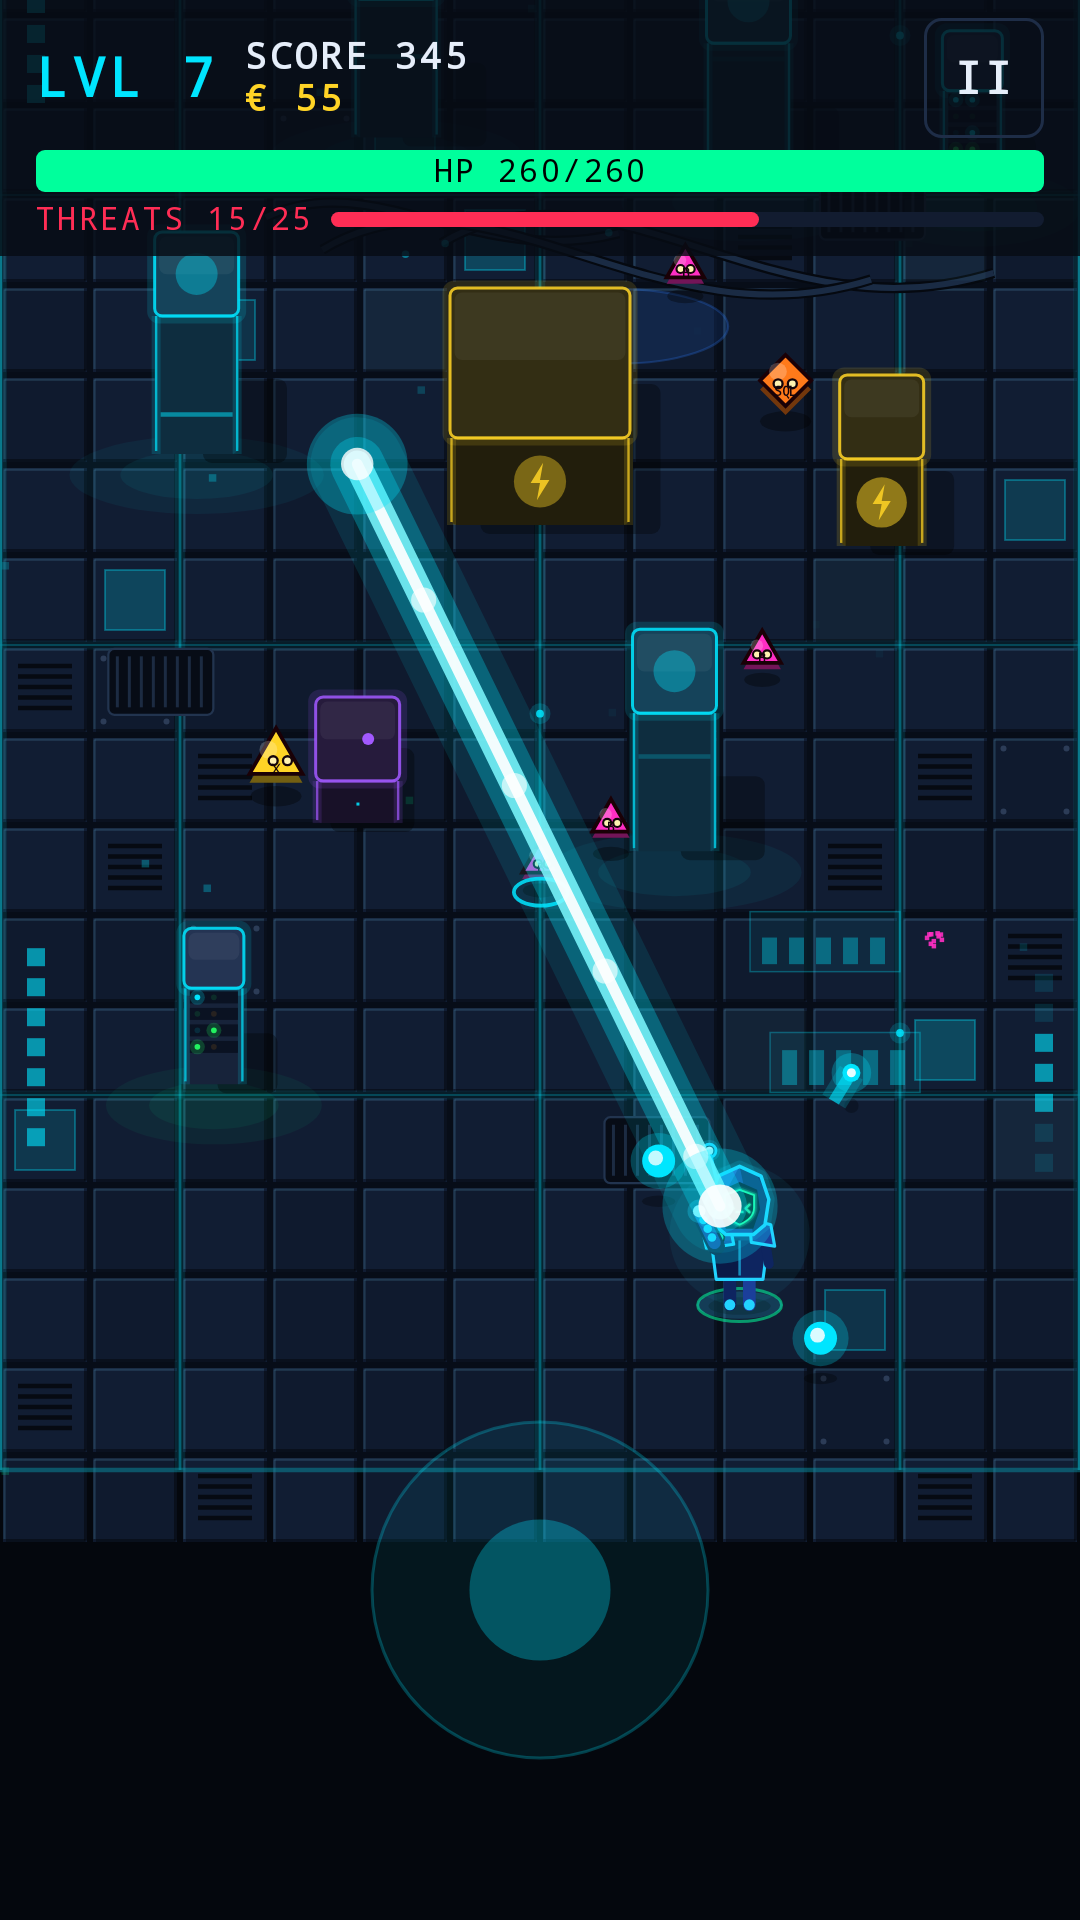
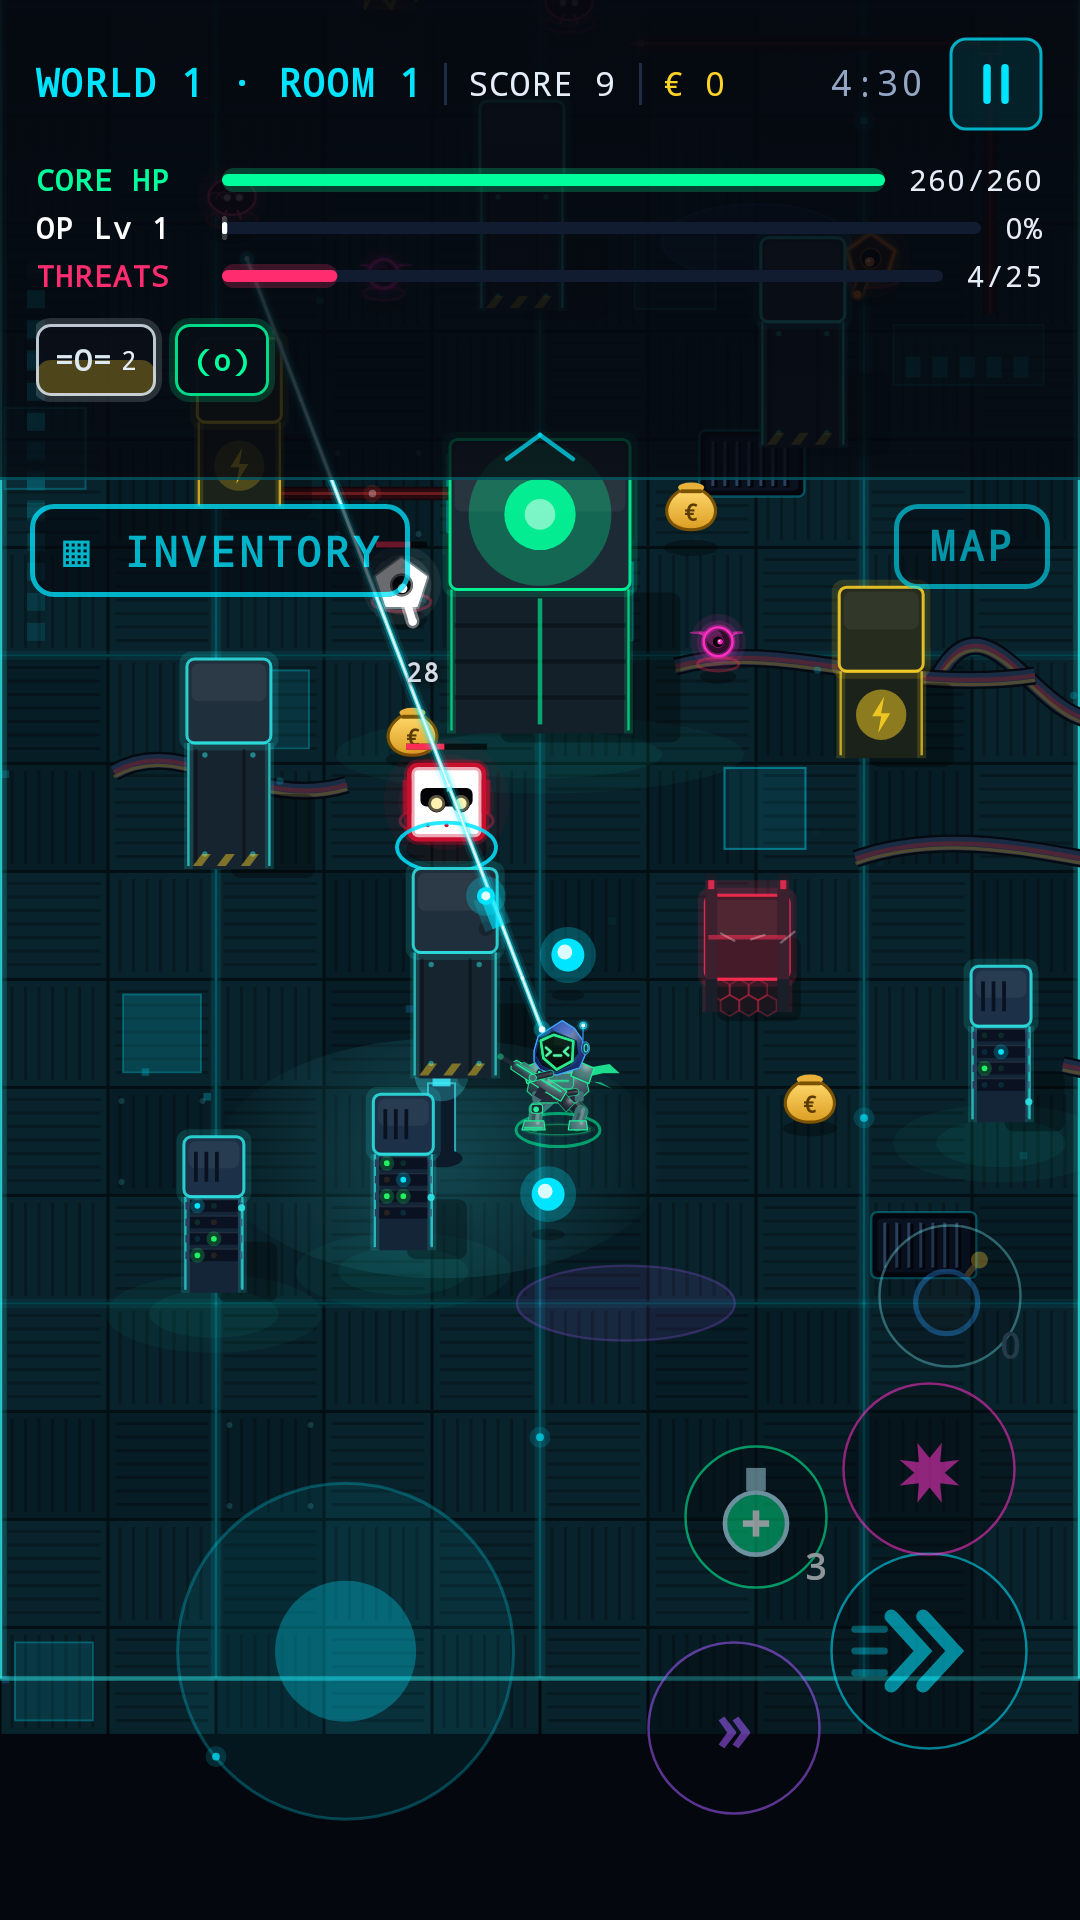
0.47.1: draw the Plasma Beam at 15% thickness
Visual only (BEAM_LOOK in ArenaRenderer.drawBeam); the hit width stays
GameEngine.beamWidth. Store screenshot 01 re-rendered.

Claude-Session: https://claude.ai/code/session_01J4fYSi9rfQR62SLnfyrDCN

diff --git a/app/src/main/java/com/cyberoperative/game/ui/game/ArenaRenderer.kt b/app/src/main/java/com/cyberoperative/game/ui/game/ArenaRenderer.kt
@@ -2121,6 +2121,9 @@ class ArenaRenderer {
         }
     }
 
+    /** Plasma Beam look: its drawn width as a share of its hit width. */
+    private val BEAM_LOOK = 0.15f
+
     /** Plasma Beam: layered cyan glow with a white-hot core, muzzle flare and impact sparks. */
     private fun DrawScope.drawBeam(g: GameEngine, time: Float, lift: Float) {
         if (!g.beamActive) return
@@ -2129,14 +2132,16 @@ class ArenaRenderer {
         val sy = g.py - lift - 6f + sin(ang) * 30f
         val ex = g.beamX2
         val ey = g.beamY2 - lift
-        val w = g.beamWidth
+        // Drawn at 15% of its old thickness (owner, 0.47.1: "it covers a whole line on the screen");
+        // what it hits is unchanged (GameEngine.beamWidth).
+        val w = (g.beamWidth * BEAM_LOOK).coerceAtLeast(2.5f)
         val flick = 0.85f + 0.15f * sin(time * 60f)
         val a = Offset(sx, sy)
         val b = Offset(ex, ey)
         drawLine(Palette.Cyan.copy(alpha = 0.10f), a, b, w * 2.6f, cap = androidx.compose.ui.graphics.StrokeCap.Round)
         drawLine(Palette.Cyan.copy(alpha = 0.30f * flick), a, b, w * 1.5f, cap = androidx.compose.ui.graphics.StrokeCap.Round)
         drawLine(Color(0xFF7DF9FF).copy(alpha = 0.85f), a, b, w * 0.75f, cap = androidx.compose.ui.graphics.StrokeCap.Round)
-        drawLine(Color.White.copy(alpha = 0.95f * flick), a, b, w * 0.3f, cap = androidx.compose.ui.graphics.StrokeCap.Round)
+        drawLine(Color.White.copy(alpha = 0.95f * flick), a, b, (w * 0.3f).coerceAtLeast(1f), cap = androidx.compose.ui.graphics.StrokeCap.Round)
         // Energy pulses travelling down the beam.
         val len = kotlin.math.hypot(ex - sx, ey - sy)
         if (len > 1f) for (k in 0 until 4) {

diff --git a/README.md b/README.md
@@ -16,7 +16,7 @@ Play **co-op** with a friend (friend codes, invites, live two-player runs; see `
 
 ## Project status
 
-`0.47.0` — GLITCHED ENCRYPTED gear: a new top rarity, 650 pieces (50 per slot + 50 class weapons per class), cyan↔red glitch animations; `0.46.0` AUTO-SELL in Settings (sell everything below a chosen rarity); `0.45.3` fixed the silent NEON tracks on Android; `0.45.2` hatch sound effect, plus a full hatch clip in `docs/pets_new/hatch_animation.mp4`; `0.45.1` hatch glow from 1× (Common) to 2× (Encrypted) in the rarity's colour; `0.45.0` three incubators hatching at once (empty glass or the real egg inside), an animated hatch reveal with the pet's stats that grows with rarity; `0.44.0` operator redesign: the same figures with the pets' shading (matte cloth Packet Mage, Phantom hood and cape as before); `0.43.1` Technician without the small blaster; operator redesign concept; `0.43.0` instant hatch with € too (highest OP level × ◇ price × 100); `0.42.0` INSTANT HATCH for ◇ (4 × ⌈rarity × minutes ÷ 6⌉); `0.41.0` 500 animated ENCRYPTED pets in 14 colourways (orbiting orbs, gears, rings, propellers…); `0.40.0` 500 new GLITCHED…ENCRYPTED pets with their own eggs; `0.39.1` tougher NORMAL past level 100 (HARD rises with it), HARD Idle Runs (no GLITCHED/ENCRYPTED from idle); `0.39.0` GLITCHED LEGENDARY and ENCRYPTED gear + chips, FORGED…ABYSSAL chips (22 new chips: shoot while moving, heal per hit, auto/full-heal potions, ×2 damage…), Golden+ gear +30%, easier HARD past World 2 with 2 chips a room, bosses drop 3 HP potions, pet abilities, hatch notification; `0.38.0` COMPANIONS: eggs (drops + ◇ store), incubator with real-time hatching that ignores clock changes, Inferno Stones (−15% each, up to −90%), 1,005 pets that follow and fight; `0.37.6` 3 × 1 Idle Run widget; `0.37.5` five new NEON tracks on any level (never on bosses, never altered); `0.37.4` Idle Runs pay 40% € (XP stays 50%) and 20% less gear; `0.37.3` Idle Runs keep only EPIC and better gear; `0.37.2` Idle Runs last about twice as long again; `0.37.1` easier Idle Runs (they run about twice as long); `0.37.0` IDLE RUNS: your operator fights on with the game closed (50% € and XP), with a 2 × 3 Android home-screen widget and a notification when it falls; Boss Expansion bosses get moving parts (mesh rigs); `0.36.4` co-op € fully separate (your kills, your bags, your own payouts; trade to share); `0.36.3` one € total in co-op too; TRADE only shows when usable; short numbers (398k, 3.7m) when they don't fit; `0.36.2` the classic bosses get moving parts too (mesh rigs); `0.36.1` INFERNO bosses get real moving parts (deformable mesh rigs); `0.36.0` INFERNO bosses redrawn from the owner's pack paintings with animation rigs; recorded INFERNO drop sounds; `0.35.1` each INFERNO boss has its own colour; `0.35.0` sell backpack items; co-op TRADE; 15 INFERNO-only bosses (Packs Alpha/Beta/Gamma); Shadow Step knives, smarter Firestorm, wall-piercing Arcane Nova; signature perks on Legendary+ gear; `0.34.0` INFERNO levels 1–500 (curve A, level stepper); one Data Vault shared by every character (main-menu DATA VAULT); ABYSSAL in ~1 shop in 100; `0.33.0` four INFERNO equipment rarities (Forged, Voltaic, Celestial, Abyssal) with their own art, animated cards, auras and base × INFERNO level drop odds; `0.32.0` € carries over between runs; 4 equipment pieces (PURPLE+) in the shop; INFERNO soundtrack; `0.31.0` co-op shared XP and smoother partners; PC exit button, 2× HUD, big ability bar, keybinds in pause; `0.30.5` XP bar reads OC Lv after level 60; `0.30.4` fixed a fake left EXIT door; Circuit Hydra loses 10% HP per head destroyed; `0.30.3` white XP bar in the HUD; rooms follow the screen orientation; `0.30.2` level XP ×10 (1–60 is 29.2M XP; saves keep their level); `0.30.1` fixed the keyboard closing on the character name and the Packet Mage face parts; `0.30.0` Data Vault update phase 2: gear loot (the owner's art, 8 rarities, beams + sheen), CHARACTER / GEAR / DATA VAULT screens with drag-to-equip, character creator and named characters, in-game INVENTORY; `0.29.0` INFERNO I–X difficulties with a hell look; `0.28.0` Data Vault update phase 1: OP Lv 1–60 + Overclock, Diablo armor, no Firewall, € wipe; `0.27.0` world server: MOVE TO NEXT WORLD (co-op 1/2 ready); `0.26.3` fix: no way on to the next world after the shop; `0.26.2` slim Android landscape HUD; `0.26.1` PC direct-IP co-op (no Steam needed); `0.26.0` co-op shop (a shop each, in and out together); `0.25.9` no HP/Firewall regen over time, MAP corner kept clear of touch buttons; `0.25.8` compact shop window; `0.25.7` room slide follows the door direction; `0.25.6` ALL COLOUR SKINS pack ◇1400; `0.25.5` skins renamed by colour; `0.25.4` fixed the crash on START; crash reporter; PURPLE/GLITCHED campaign skins, GOLD and NEON (◇1000) skins, PROXY SHOT removed; boss loot sprays out; per-player co-op loot; World-map CAMPAIGN (15 worlds); Steam build (PC + Steam Deck, landscape) added in `desktop/`; Boss Expansion Vol. 1 under way; 0.16.0 balance pass (pooled mastery, bigger Packet Flood) (see `DEVELOPMENT_STATE.md` and `docs/BOSS_EXPANSION_LOG.md`).
+`0.47.1` — Plasma Beam drawn at 15% thickness; `0.47.0` GLITCHED ENCRYPTED gear: a new top rarity, 650 pieces (50 per slot + 50 class weapons per class), cyan↔red glitch animations; `0.46.0` AUTO-SELL in Settings (sell everything below a chosen rarity); `0.45.3` fixed the silent NEON tracks on Android; `0.45.2` hatch sound effect, plus a full hatch clip in `docs/pets_new/hatch_animation.mp4`; `0.45.1` hatch glow from 1× (Common) to 2× (Encrypted) in the rarity's colour; `0.45.0` three incubators hatching at once (empty glass or the real egg inside), an animated hatch reveal with the pet's stats that grows with rarity; `0.44.0` operator redesign: the same figures with the pets' shading (matte cloth Packet Mage, Phantom hood and cape as before); `0.43.1` Technician without the small blaster; operator redesign concept; `0.43.0` instant hatch with € too (highest OP level × ◇ price × 100); `0.42.0` INSTANT HATCH for ◇ (4 × ⌈rarity × minutes ÷ 6⌉); `0.41.0` 500 animated ENCRYPTED pets in 14 colourways (orbiting orbs, gears, rings, propellers…); `0.40.0` 500 new GLITCHED…ENCRYPTED pets with their own eggs; `0.39.1` tougher NORMAL past level 100 (HARD rises with it), HARD Idle Runs (no GLITCHED/ENCRYPTED from idle); `0.39.0` GLITCHED LEGENDARY and ENCRYPTED gear + chips, FORGED…ABYSSAL chips (22 new chips: shoot while moving, heal per hit, auto/full-heal potions, ×2 damage…), Golden+ gear +30%, easier HARD past World 2 with 2 chips a room, bosses drop 3 HP potions, pet abilities, hatch notification; `0.38.0` COMPANIONS: eggs (drops + ◇ store), incubator with real-time hatching that ignores clock changes, Inferno Stones (−15% each, up to −90%), 1,005 pets that follow and fight; `0.37.6` 3 × 1 Idle Run widget; `0.37.5` five new NEON tracks on any level (never on bosses, never altered); `0.37.4` Idle Runs pay 40% € (XP stays 50%) and 20% less gear; `0.37.3` Idle Runs keep only EPIC and better gear; `0.37.2` Idle Runs last about twice as long again; `0.37.1` easier Idle Runs (they run about twice as long); `0.37.0` IDLE RUNS: your operator fights on with the game closed (50% € and XP), with a 2 × 3 Android home-screen widget and a notification when it falls; Boss Expansion bosses get moving parts (mesh rigs); `0.36.4` co-op € fully separate (your kills, your bags, your own payouts; trade to share); `0.36.3` one € total in co-op too; TRADE only shows when usable; short numbers (398k, 3.7m) when they don't fit; `0.36.2` the classic bosses get moving parts too (mesh rigs); `0.36.1` INFERNO bosses get real moving parts (deformable mesh rigs); `0.36.0` INFERNO bosses redrawn from the owner's pack paintings with animation rigs; recorded INFERNO drop sounds; `0.35.1` each INFERNO boss has its own colour; `0.35.0` sell backpack items; co-op TRADE; 15 INFERNO-only bosses (Packs Alpha/Beta/Gamma); Shadow Step knives, smarter Firestorm, wall-piercing Arcane Nova; signature perks on Legendary+ gear; `0.34.0` INFERNO levels 1–500 (curve A, level stepper); one Data Vault shared by every character (main-menu DATA VAULT); ABYSSAL in ~1 shop in 100; `0.33.0` four INFERNO equipment rarities (Forged, Voltaic, Celestial, Abyssal) with their own art, animated cards, auras and base × INFERNO level drop odds; `0.32.0` € carries over between runs; 4 equipment pieces (PURPLE+) in the shop; INFERNO soundtrack; `0.31.0` co-op shared XP and smoother partners; PC exit button, 2× HUD, big ability bar, keybinds in pause; `0.30.5` XP bar reads OC Lv after level 60; `0.30.4` fixed a fake left EXIT door; Circuit Hydra loses 10% HP per head destroyed; `0.30.3` white XP bar in the HUD; rooms follow the screen orientation; `0.30.2` level XP ×10 (1–60 is 29.2M XP; saves keep their level); `0.30.1` fixed the keyboard closing on the character name and the Packet Mage face parts; `0.30.0` Data Vault update phase 2: gear loot (the owner's art, 8 rarities, beams + sheen), CHARACTER / GEAR / DATA VAULT screens with drag-to-equip, character creator and named characters, in-game INVENTORY; `0.29.0` INFERNO I–X difficulties with a hell look; `0.28.0` Data Vault update phase 1: OP Lv 1–60 + Overclock, Diablo armor, no Firewall, € wipe; `0.27.0` world server: MOVE TO NEXT WORLD (co-op 1/2 ready); `0.26.3` fix: no way on to the next world after the shop; `0.26.2` slim Android landscape HUD; `0.26.1` PC direct-IP co-op (no Steam needed); `0.26.0` co-op shop (a shop each, in and out together); `0.25.9` no HP/Firewall regen over time, MAP corner kept clear of touch buttons; `0.25.8` compact shop window; `0.25.7` room slide follows the door direction; `0.25.6` ALL COLOUR SKINS pack ◇1400; `0.25.5` skins renamed by colour; `0.25.4` fixed the crash on START; crash reporter; PURPLE/GLITCHED campaign skins, GOLD and NEON (◇1000) skins, PROXY SHOT removed; boss loot sprays out; per-player co-op loot; World-map CAMPAIGN (15 worlds); Steam build (PC + Steam Deck, landscape) added in `desktop/`; Boss Expansion Vol. 1 under way; 0.16.0 balance pass (pooled mastery, bigger Packet Flood) (see `DEVELOPMENT_STATE.md` and `docs/BOSS_EXPANSION_LOG.md`).
 
 | | |
 |---|---|

diff --git a/DEVELOPMENT_STATE.md b/DEVELOPMENT_STATE.md
@@ -6,7 +6,7 @@ _Read this first in every new session, then README, GAME_DESIGN, BACKLOG, CHANGE
 
 | | |
 |---|---|
-| Version | 0.47.0 (versionCode 133) |
+| Version | 0.47.1 (versionCode 134) |
 | Milestone | M1 vertical slice ✅ · M2 first boss & systems ✅ (pending device playtest) |
 | Last completed | 0.9.5 fullscreen HUD redesign (ui/game/GameHud.kt, buff chips in UpgradeBar.kt) |
 | Current task | Waiting on owner: body design (CO-094) and Power-Up Board picks (CO-090) |
@@ -14,6 +14,7 @@ _Read this first in every new session, then README, GAME_DESIGN, BACKLOG, CHANGE
 | Test status | `./gradlew :app:testDebugUnitTest` ✅ (32 tests + 15 opt-in screenshot renders) |
 
 ## Known issues / caveats
+- **0.47.1:** the Plasma Beam is drawn at `BEAM_LOOK` (15%) of `GameEngine.beamWidth` in `ArenaRenderer.drawBeam`. Its hit width is unchanged.
 - **0.47.0 GLITCHED ENCRYPTED:**
   - It is the last `GearRarity`, with `artTier = GearArt.GX_TIER` (9). Its art is a separate sheet, `<slot>_gx.webp` (`GearIcons.gxAtlas`), drawn at cells `0..count-1`.
   - PRIMARY art: 0–49 are shared rifles, then 50 per class in `GunStyle.classed` order. Use `GunStyle.forArt(art, rarity)`.

diff --git a/CHANGELOG.md b/CHANGELOG.md
@@ -1,5 +1,10 @@
 # Changelog
 
+## 0.47.1 (versionCode 134) — 2026-10-18 · Thinner Plasma Beam
+### Changed (owner: "it covers a whole line on the screen")
+- The Plasma Beam is drawn at 15% of its old thickness: its glow, core, pulses, muzzle flare and impact all shrink. What it hits and its damage are unchanged.
+- `docs/store-screenshots/01_plasma_beam.png` re-rendered.
+
 ## 0.47.0 (versionCode 133) — 2026-10-18 · GLITCHED ENCRYPTED gear
 ### Added (owner)
 - **GLITCHED ENCRYPTED**, a new top gear rarity above ENCRYPTED.
